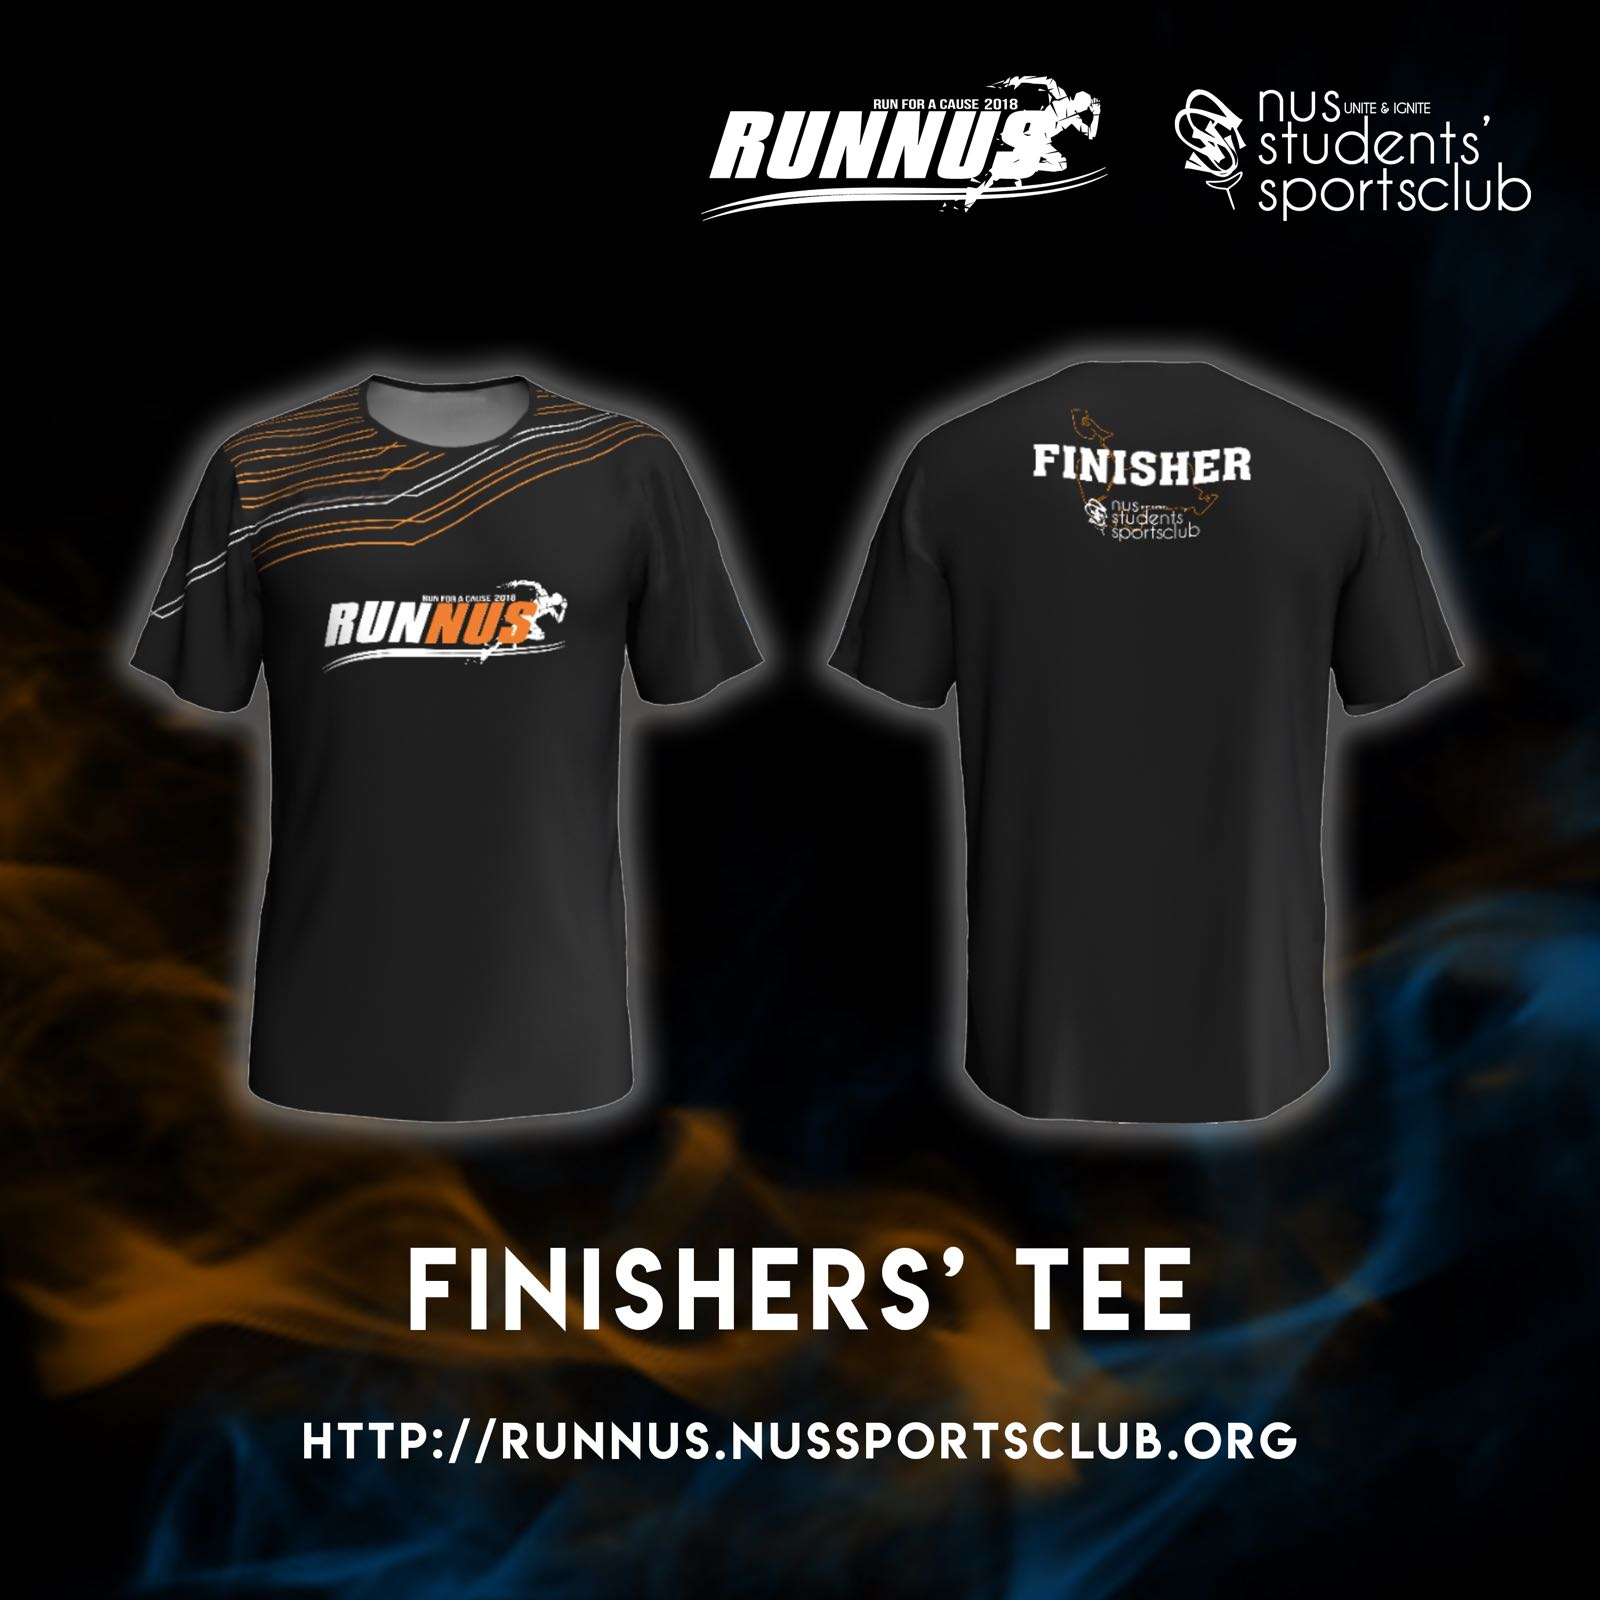
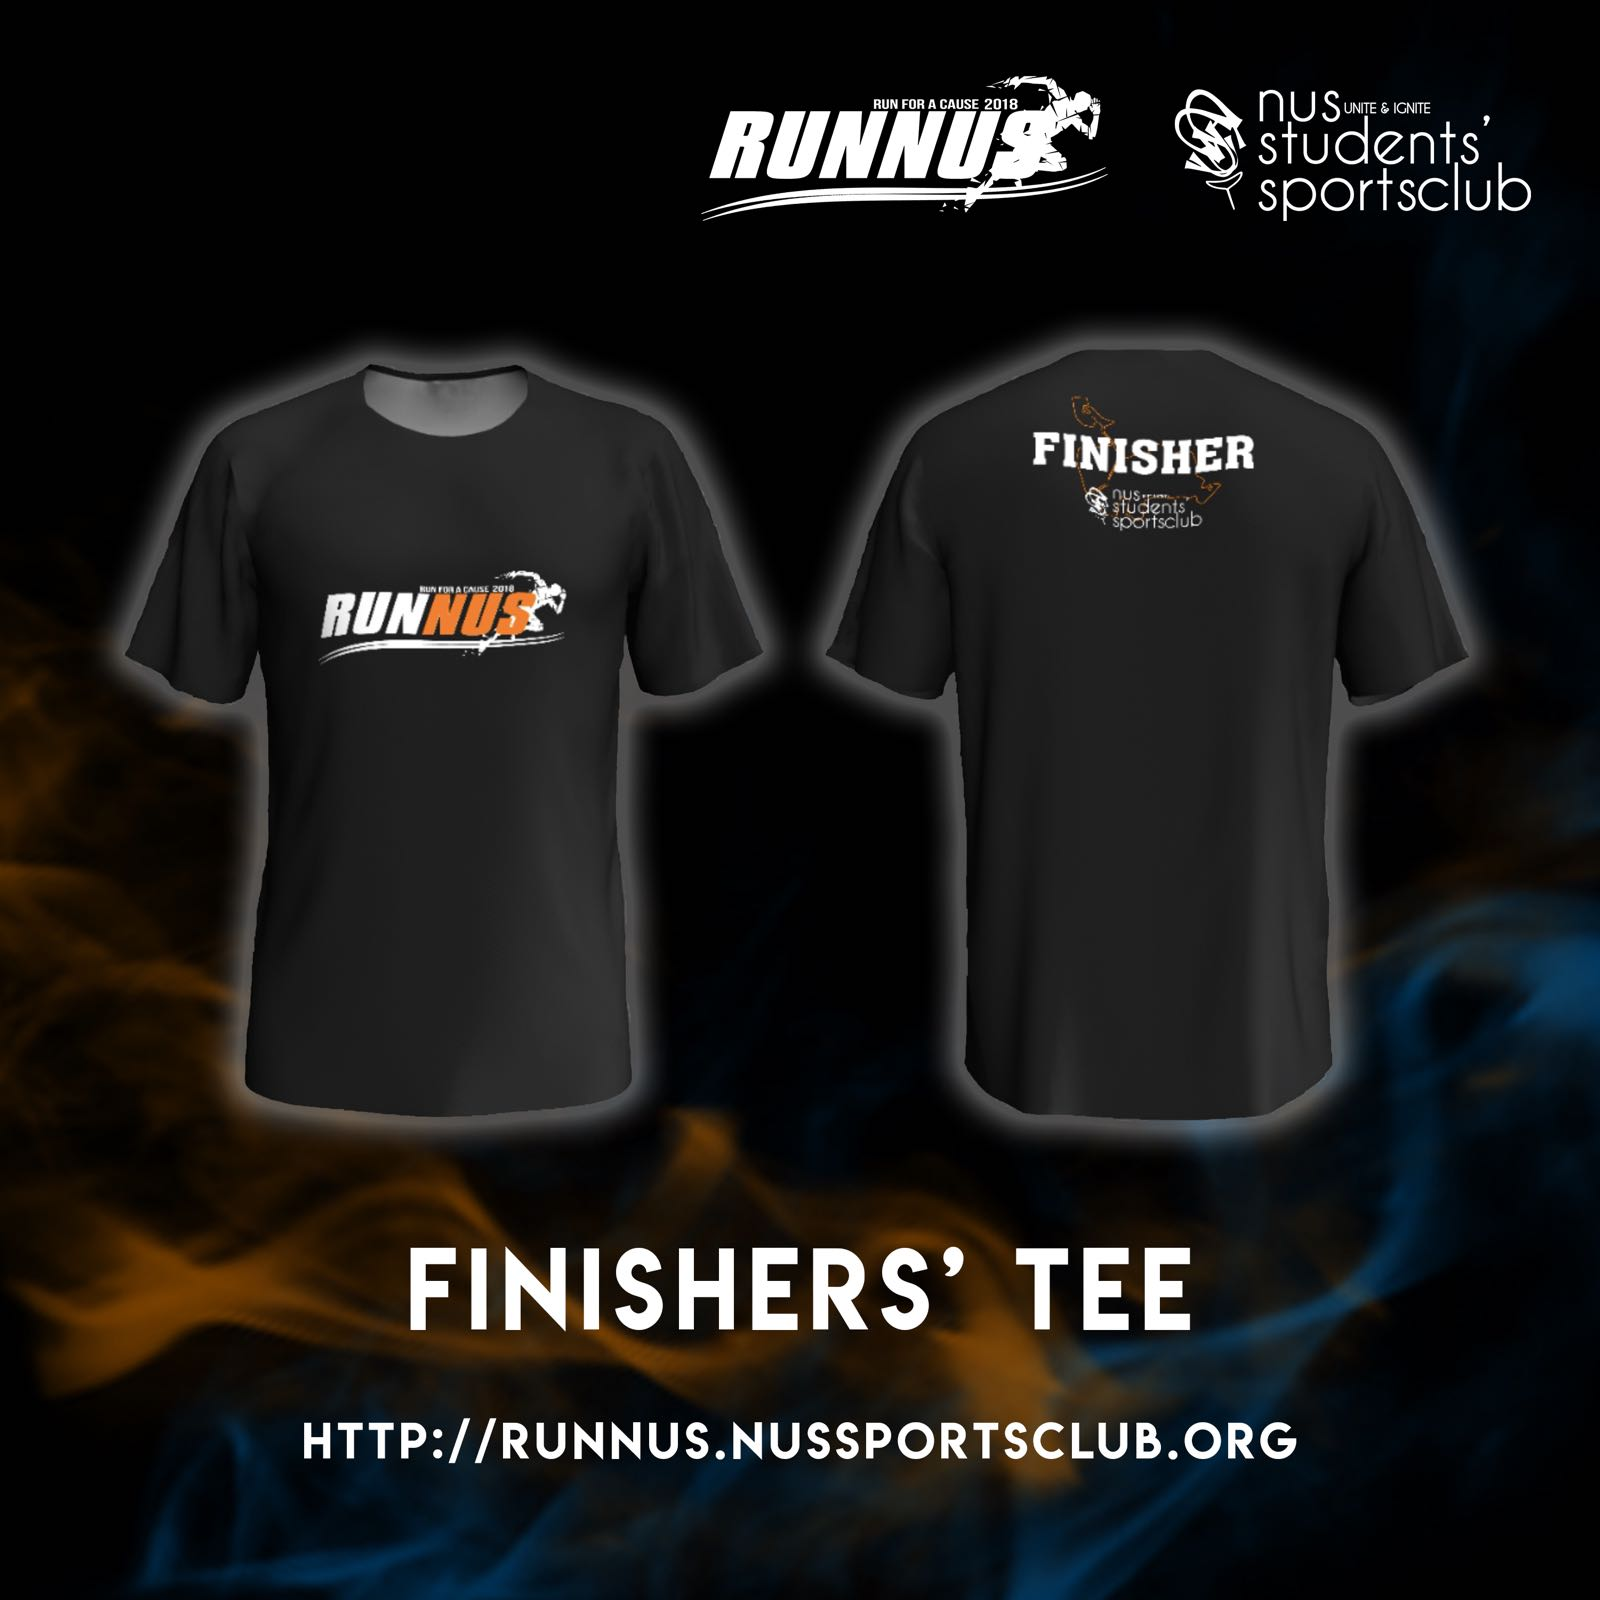
Fixed wrong shirt design, updated video and social media widget.

diff --git a/index.html b/index.html
@@ -90,6 +90,9 @@
       <h1 class="title is-1">About Us</h1>
       <h2 class="subtitle">
         <div class="content">
+          <div class="container has-text-centered">
+            <img src="img/runtransparency.png" width="50%">
+          </div>
           <h3>RunNUS is an annual running event organized by NUS Students’ Sports Club to promote healthy lifestyles among the
             NUS population and the public.
           </h3>
@@ -103,19 +106,12 @@
 
           <div class="container has-text-centered">
             <img src="img/sportsclub.png" width="50%">
-
           </div>
           <br>
           <p class="is-size-6">
             The National University of Singapore Students’ Sports Club (NUSSSC) is one of the most active and widely reached student-run
             organization on campus. Dedicated to providing the NUS population with an array of sporting activities and a
-            channel to enrich their campus lives, we cater to the recreational sporting needs of the NUS community. Ever
-            since its inception in 1979, NUSSSC has grown into the largest non-faculty constituent club in NUS, currently
-            led by its 38th Management Committee; our objective is to promote a healthy lifestyle and community bonding through
-            recreational sports. NUSSSC boasts a family of 21 member clubs, categorised into Martial Arts, Indoor, Land and
-            Water sports. In line with our vision of encouraging the NUS community in their pursuits of sports, NUSSSC also
-            spearheads major events such as NUS Biathlon, SunNUS, NUS Sports Camp, RunNUS, Martial Arts Day (MADNUS) and
-            Inter-Faculty Games (IFG).
+            channel to enrich their campus lives, we cater to the recreational sporting needs of the NUS community.
             </br>
             </br>
             The club also hosts the following 6 projects:
@@ -260,7 +256,7 @@
             open to everyone! To promote inclusiveness, we will be inviting 50 Persons With Disabilities / Special Needs
             (PWDSNs) to join us in our walk.
           </p>
-          <h3 class="has-text-info">3KM</h3>
+          <h3 class="has-text-info">3KM (Wheelchair Friendly!)</h3>
           <div class="is-divider" data-content="Requirements"></div>
           <ul type="none">
             <li>
@@ -271,8 +267,8 @@
               <li>Completely free of charge </li>
               <li> Feeling unsure/worried about not being experienced enough? Fret not as:
                 <ol style="padding-left: 1em" type="i">
-                  <li>You will go through a talk conducted by Disabled... Disabled People’s Association (DPA) on how to interact
-                    with our PWDSNs. More details will be given at a later date.</li>
+                  <li>You will go through a talk conducted by Disabled People’s Association (DPA) on how to interact with our
+                    PWDSNs. More details will be given at a later date.</li>
                   <li>Trained personnel will be provided by SSOs on the event day to aid in the smooth execution of the 3km challenge.</li>
                 </ol>
               </li>
@@ -305,27 +301,28 @@
 
   <div class="section">
     <!--Inline styling for iFrame-->
-    <!-- <style>
+    <style>
       .fluidMedia {
         position: relative;
         padding-bottom: 56.25%;
         /* proportion value to aspect ratio 16:9 (9 / 16 = 0.5625 or 56.25%) */
-        padding-top: 30px;
+        padding-top: 0px;
         height: 0;
         overflow: hidden;
       }
 
-      .fluidMedia iframe {
+      .fluidMedia-iframe {
         position: absolute;
         top: 0;
         left: 0;
         width: 100%;
         height: 100%;
-      } -->
-    <!-- </style> -->
+      }
+    </style>
+
     <!--Video-->
-    <div class="container has-text-centered is-hidden-touch">
-      <iframe src="https://www.facebook.com/plugins/video.php?href=https%3A%2F%2Fwww.facebook.com%2FRunNUS%2Fvideos%2F1850804981642757%2F&width=700&show_text=false&height=392&appId"
+    <div class="container has-text-centered fluidMedia">
+      <iframe class="fluidMedia-iframe" src="https://www.facebook.com/plugins/video.php?href=https%3A%2F%2Fwww.facebook.com%2FRunNUS%2Fvideos%2F1850804981642757%2F&width=700&show_text=false&height=392&appId"
         width="700" height="392" style="border:none;overflow:hidden" scrolling="no" frameborder="0" allowTransparency="true"
         allow="encrypted-media" allowFullScreen="true"></iframe>
     </div>
@@ -397,18 +394,16 @@
       * At post race carnival.
 
       <!--Designs-->
-      <div class="section">
-        <div class="container">
-          <div class="columns is-centered">
-            <div class="column has-text-centered">
-              <img src="img/singlet.jpeg" height="400" width="400">
-            </div>
-            <div class="column has-text-centered">
-              <img src="img/tee.jpeg" height="400" width="400">
-            </div>
+      <section class="section">
+        <div class="columns">
+          <div class="column has-text-centered">
+            <img src="img/singlet.jpeg" height="60%" width="60%">
+          </div>
+          <div class="column has-text-centered">
+            <img src="img/tee.jpeg" height="60%" width="60%">
           </div>
         </div>
-      </div>
+      </section>
 
       <!--Shirt size-->
       <h1 class="is-size-2">Unisex shirt sizing (inches)</h1>
@@ -455,23 +450,22 @@
     </div>
 
     <!--Post Race Carnival-->
-    <div class="section">
-      <div class="container">
-        <div class="content has-text-centered">
-          <h1 class="title is-2">Post Race Carnival</h1>
-          <p class="is-size-5">
-            All runners are entitled free entry to the post race carnival
-          </p>
-          <li>Finisher's Welfare</li>
-          <li>Awareness Booths</li>
-          <li>Complimentary Photo Booths</li>
-          <li>Complimentary Snacks</li>
-          <li>.. And many more!</li>
-        </div>
-        <div class="container has-text-centered">
-          <img class="" src="img/carnival_blue.png" alt="" width="70%">
-        </div>
+    <section class="section">
+      <div class="content has-text-centered">
+        <h1 class="title is-2">Post Race Carnival</h1>
+        <p class="is-size-5">
+          All runners are entitled free entry to the post race carnival
+        </p>
+        <li>Finisher's Welfare</li>
+        <li>Awareness Booths</li>
+        <li>Complimentary Photo Booths</li>
+        <li>Complimentary Snacks</li>
+        <li>.. And many more!</li>
       </div>
+      <div class="container has-text-centered">
+        <img class="" src="img/carnival_blue.png" alt="" width="70%">
+      </div>
+    </section>
   </section>
 
   <!--Race Pack-->
@@ -518,35 +512,51 @@
   </section>
 
   <!--Media-->
+  <style>
+    .resp-container {
+      position: relative;
+      overflow: hidden;
+      padding-top: 56.25%;
+    }
+
+    .resp-iframe {
+      position: absolute;
+      top: 0;
+      left: 0;
+      width: 100%;
+      height: 100%;
+      border: 0;
+    }
+  </style>
   <section class="section">
     <div class="columns">
-      <div class="column has-text-right is-hidden-mobile">
-        <iframe src="https://www.facebook.com/plugins/page.php?href=https%3A%2F%2Fwww.facebook.com%2FRunNUS%2F&tabs=timeline&width=500&height=600&small_header=false&adapt_container_width=true&hide_cover=false&show_facepile=false&appId"
-          width="500" height="600" style="border:none;overflow:hidden" scrolling="no" frameborder="0" allowTransparency="true"
-          allow="encrypted-media"></iframe>
-      </div>
-      <div class="column has-text-left">
-        <blockquote class="instagram-media" data-instgrm-captioned data-instgrm-permalink="https://www.instagram.com/p/BXAp_z3l_hF/"
+      <div class="column" align="right">
+        <blockquote class="instagram-media" data-instgrm-captioned data-instgrm-permalink="https://www.instagram.com/p/BijEpOkH8_U/"
           data-instgrm-version="8" style=" background:#FFF; border:0; border-radius:3px; box-shadow:0 0 1px 0 rgba(0,0,0,0.5),0 1px 10px 0 rgba(0,0,0,0.15); margin: 1px; max-width:658px; padding:0; width:99.375%; width:-webkit-calc(100% - 2px); width:calc(100% - 2px);">
           <div style="padding:8px;">
-            <div style=" background:#F8F8F8; line-height:0; margin-top:40px; padding:28.125% 0; text-align:center; width:100%;">
+            <div style=" background:#F8F8F8; line-height:0; margin-top:40px; padding:50.0% 0; text-align:center; width:100%;">
[1 lines of base64/hex data omitted]
             </div>
             <p style=" margin:8px 0 0 0; padding:0 4px;">
-              <a href="https://www.instagram.com/p/BXAp_z3l_hF/" style=" color:#000; font-family:Arial,sans-serif; font-size:14px; font-style:normal; font-weight:normal; line-height:17px; text-decoration:none; word-wrap:break-word;"
-                target="_blank">RunNUS has been the biggest running event in NUS for 11 years! Want to be part of the tradition? Be an early
-                bird and sign up at www.gevme.com/runnus-2017 Mid-week reminder to join our Instagram giveaway as well! You
-                have 2 more days to try your luck :)</a>
+              <a href="https://www.instagram.com/p/BijEpOkH8_U/" style=" color:#000; font-family:Arial,sans-serif; font-size:14px; font-style:normal; font-weight:normal; line-height:17px; text-decoration:none; word-wrap:break-word;"
+                target="_blank">Want to run for a cause in September? Sign up for RunNUS today! . To register for our event, simply visit our
+                official website at: http://runnus.nussportsclub.org (Link can be found in bio) . #RunNUS2018 #RunForACause</a>
             </p>
             <p style=" color:#c9c8cd; font-family:Arial,sans-serif; font-size:14px; line-height:17px; margin-bottom:0; margin-top:8px; overflow:hidden; padding:8px 0 7px; text-align:center; text-overflow:ellipsis; white-space:nowrap;">A post shared by
               <a href="https://www.instagram.com/runnus/" style=" color:#c9c8cd; font-family:Arial,sans-serif; font-size:14px; font-style:normal; font-weight:normal; line-height:17px;"
                 target="_blank"> RunNUS 2018</a> (@runnus) on
-              <time style=" font-family:Arial,sans-serif; font-size:14px; line-height:17px;" datetime="2017-07-26T12:45:17+00:00">Jul 26, 2017 at 5:45am PDT</time>
+              <time style=" font-family:Arial,sans-serif; font-size:14px; line-height:17px;" datetime="2018-05-09T07:17:39+00:00">May 9, 2018 at 12:17am PDT</time>
             </p>
           </div>
         </blockquote>
         <script async defer src="https://www.instagram.com/embed.js"></script>
       </div>
+      <div class="column has-text-left is-hidden-touch">
+        <iframe src="https://www.facebook.com/plugins/page.php?href=https%3A%2F%2Fwww.facebook.com%2FRunNUS%2F&tabs=timeline&width=400&height=800&small_header=false&adapt_container_width=true&hide_cover=false&show_facepile=false&appId"
+          width="400" height="800" style="border:none;overflow:hidden" scrolling="no" frameborder="0" allowTransparency="true"
+          allow="encrypted-media"></iframe>
+      </div>
+    </div>
   </section>
 
   <!--Contact-->
